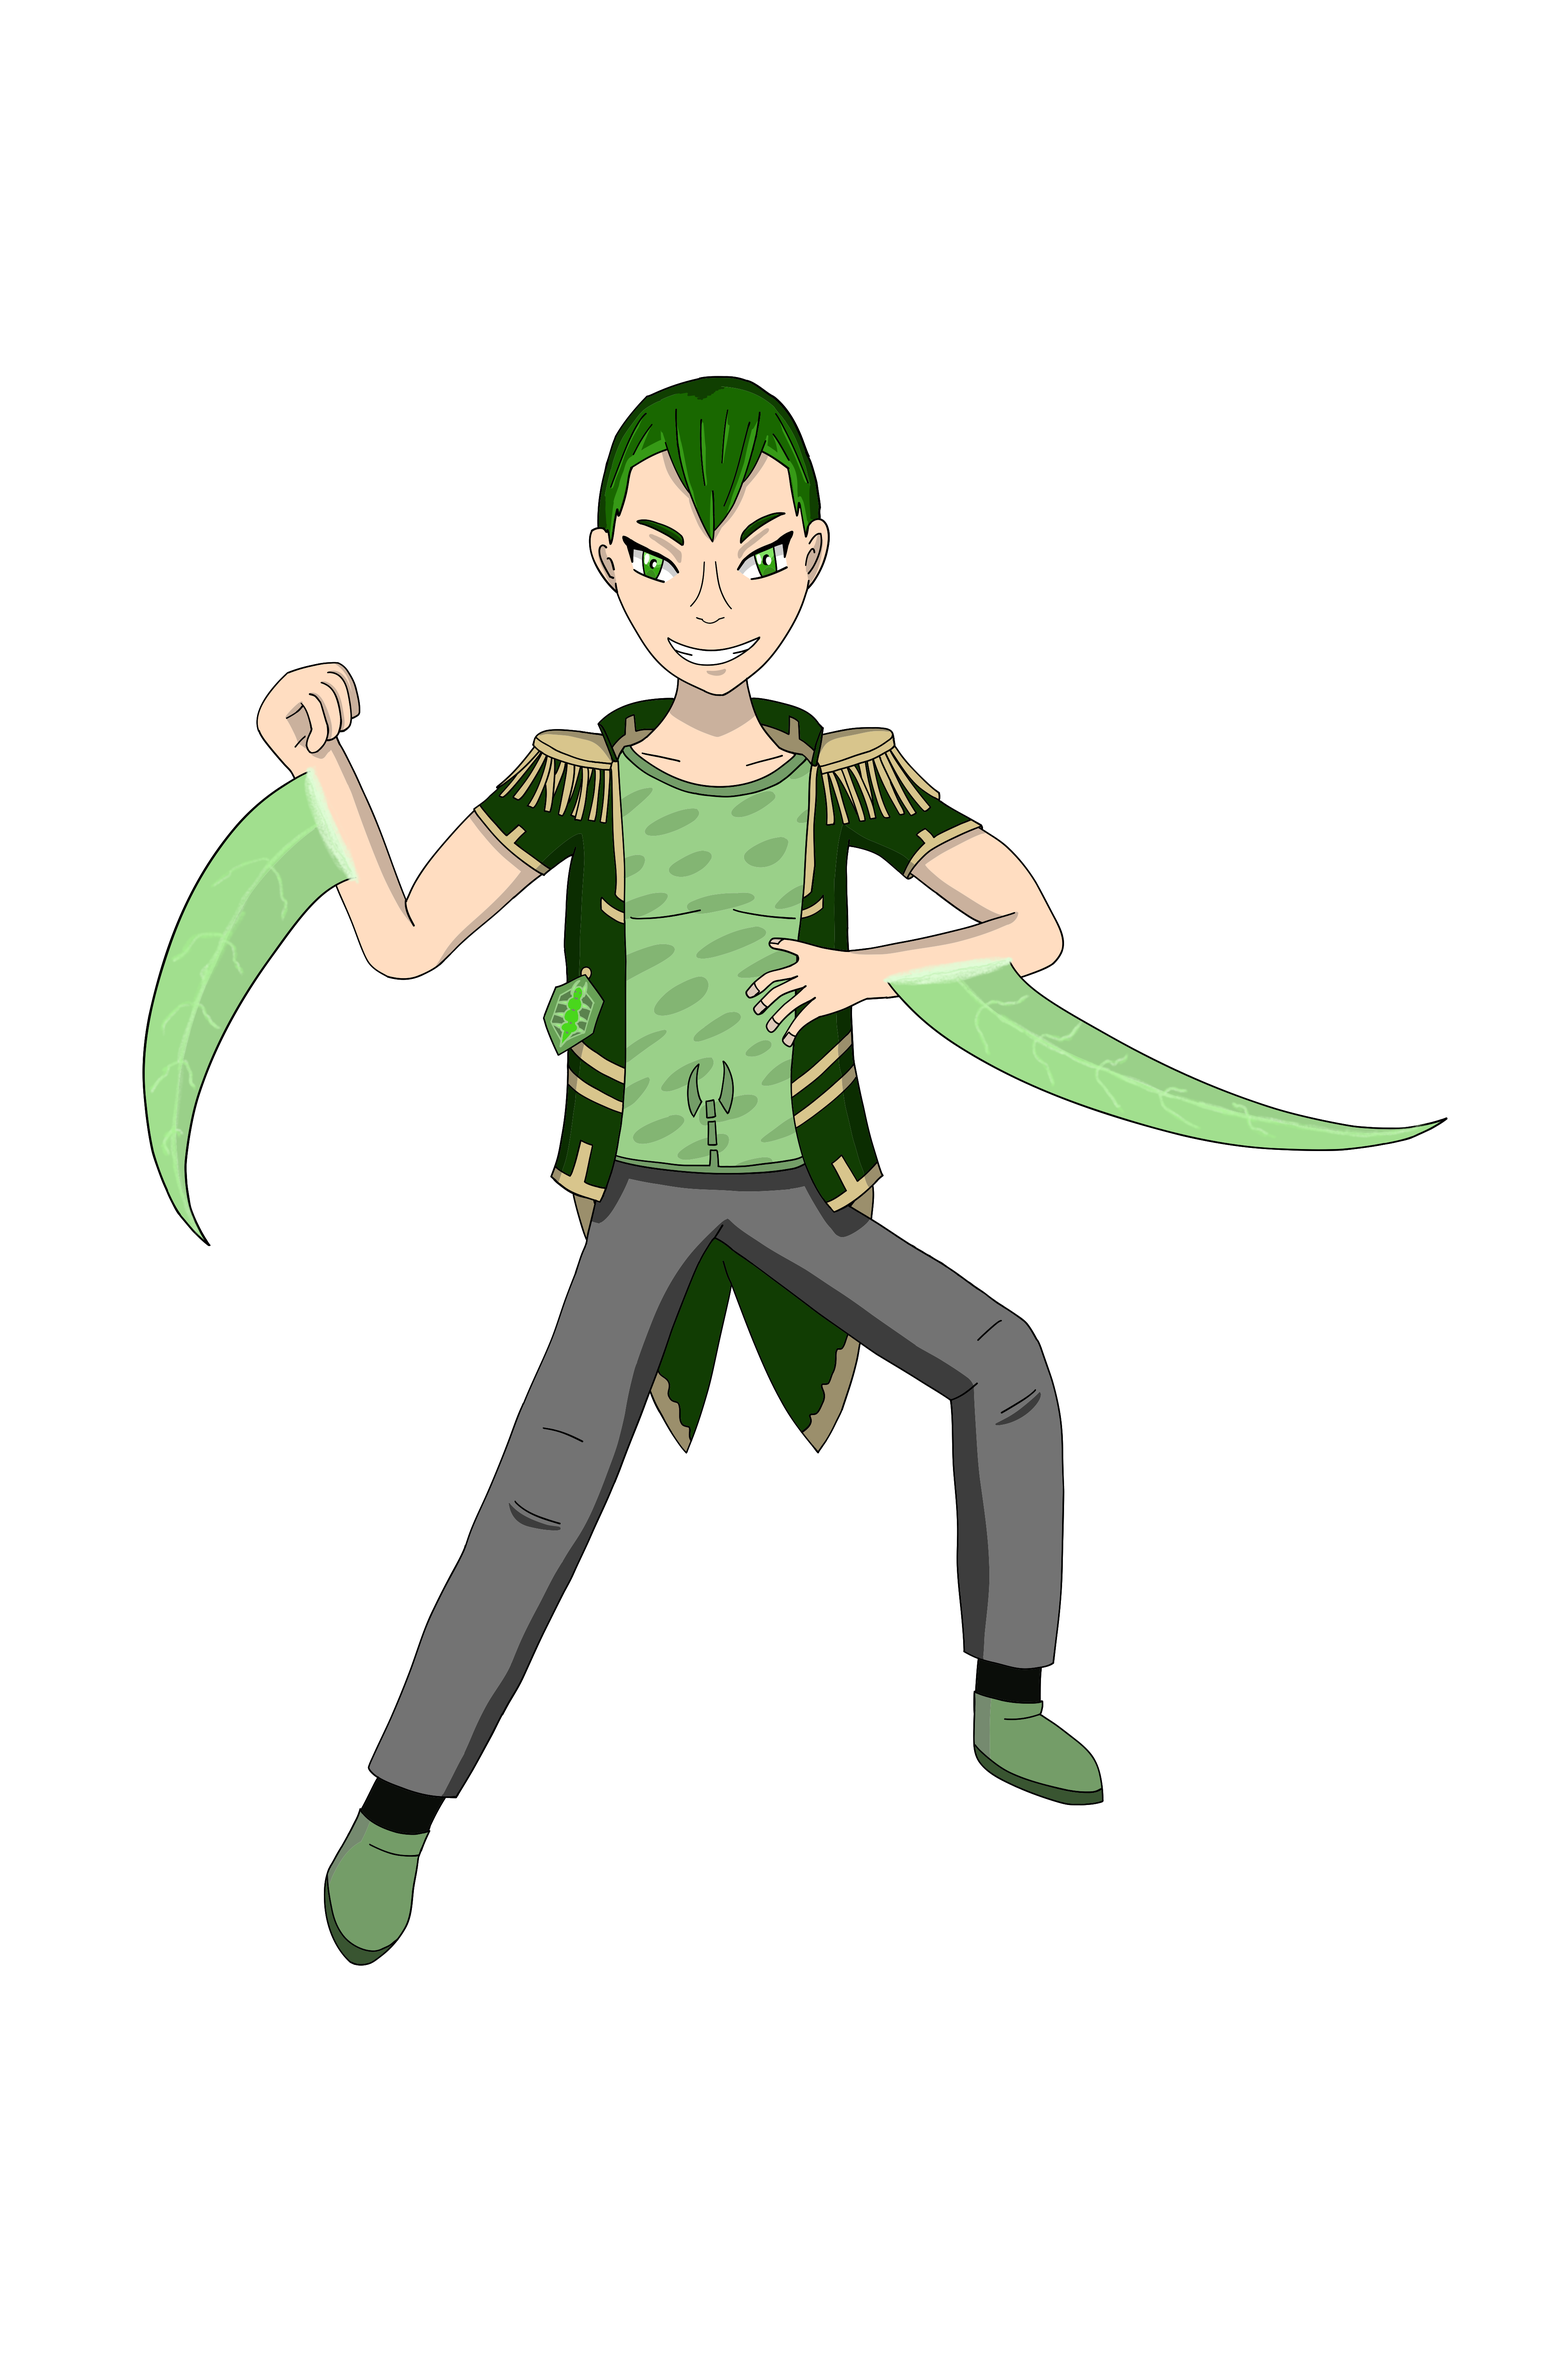
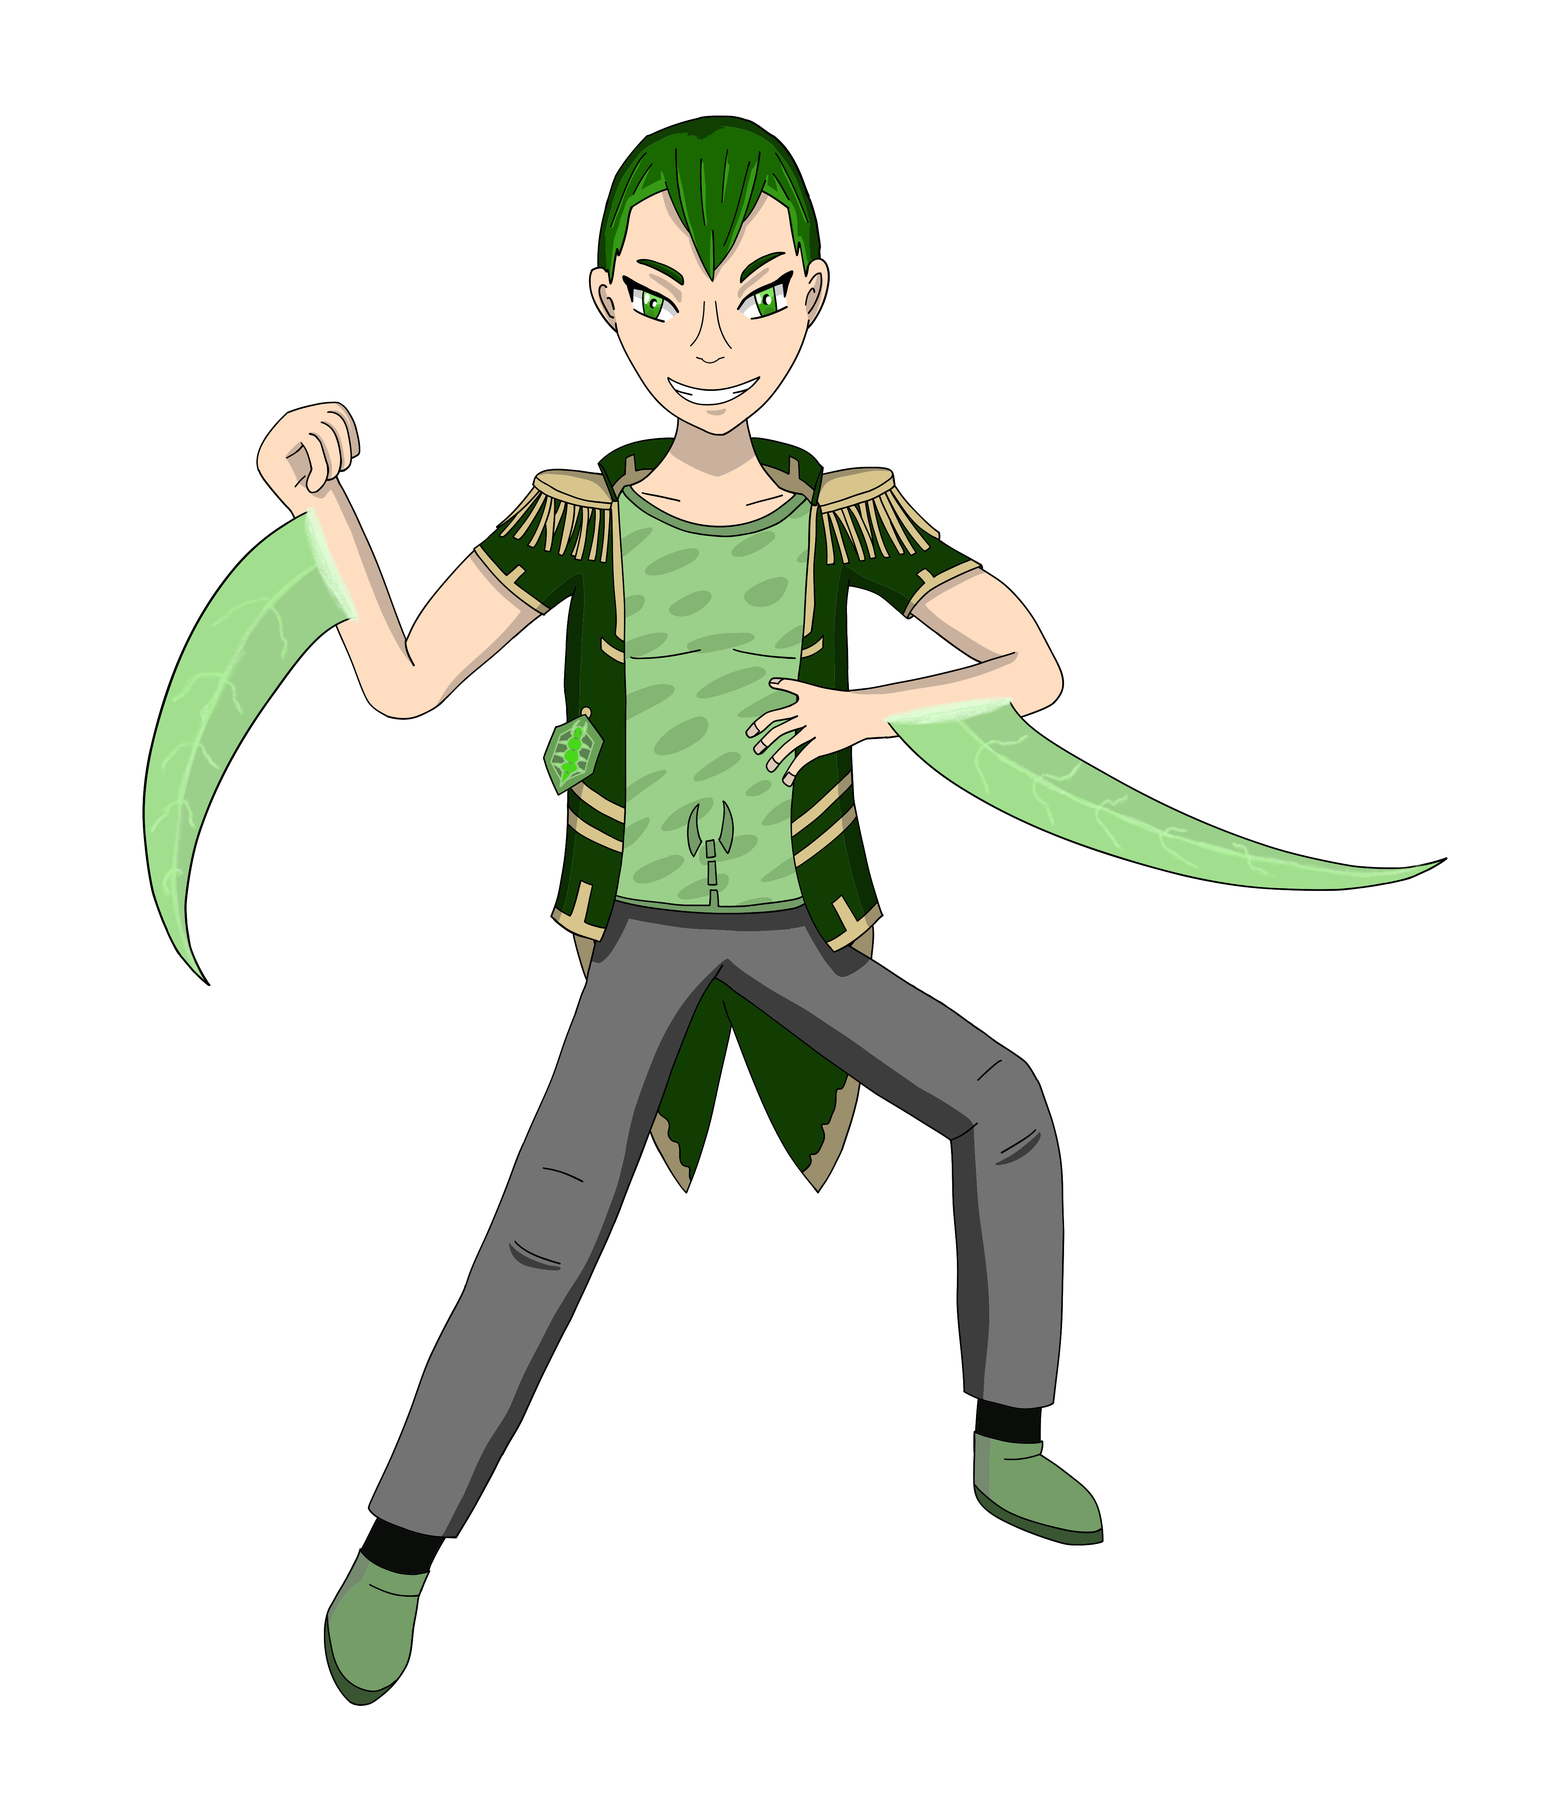
fixed music page and new images

Changed region(s): [[0.0936, 0.0623, 0.9358, 0.965], [0.0936, 0.4669, 0.1248, 0.5292]]

diff --git a/css/music.css b/css/music.css
@@ -514,7 +514,7 @@
 @media (max-width: 600px) {
 
   .music-page {
-    padding: 95px 12px 50px;
+    padding: 60px 12px 50px;
   }
 
   .player {
